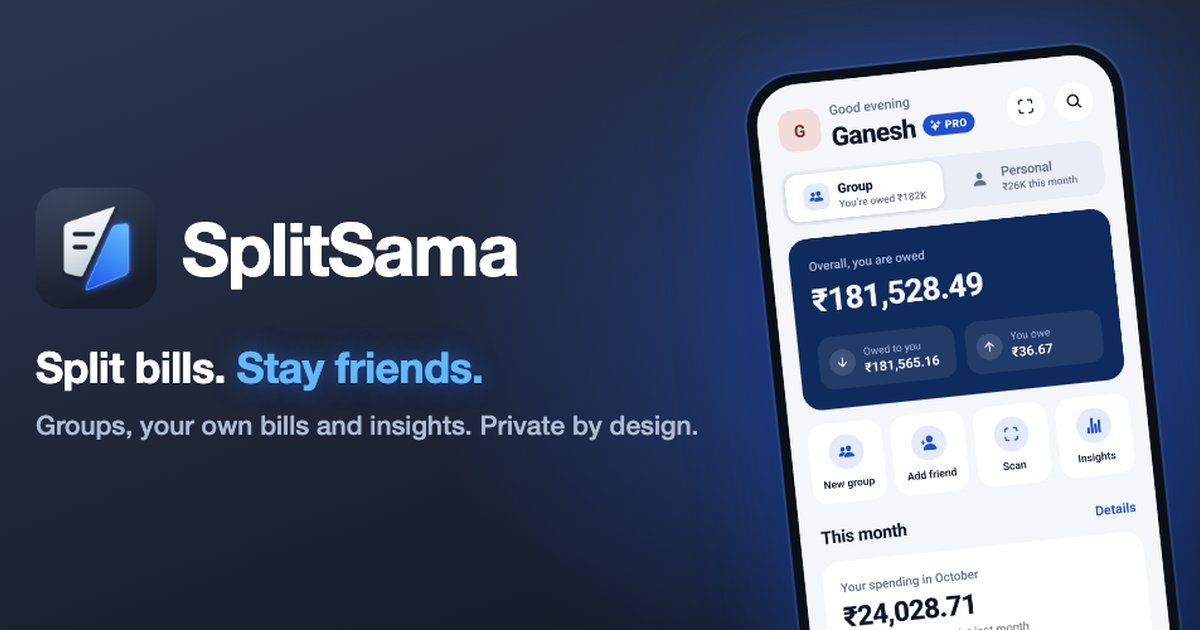
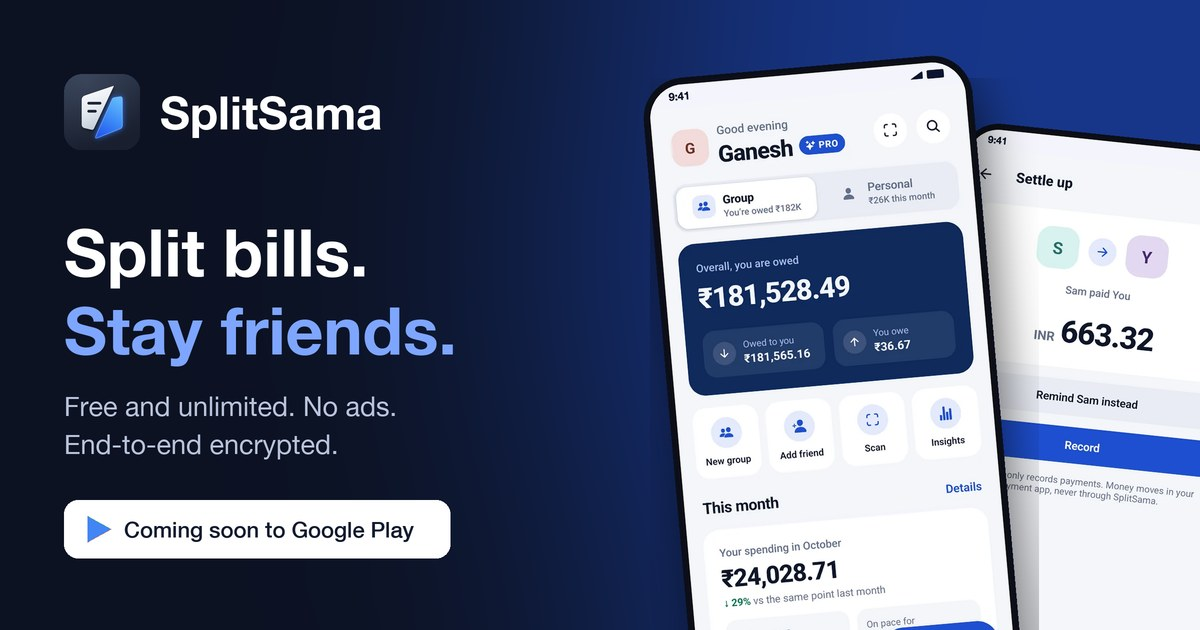
New social preview image with the current tagline and Coming soon pill

diff --git a/pro/index.html b/pro/index.html
@@ -11,7 +11,7 @@
 <meta property="og:title" content="SplitSama Pro: Receipt Scanning, Trips and Budgets">
 <meta property="og:description" content="SplitSama Pro adds receipt scanning, open bills, trip mode, shared budgets, currency conversion, charts and search. Splitting always stays free.">
 <meta property="og:url" content="https://splitsama.app/pro/">
-<meta property="og:image" content="https://splitsama.app/assets/og.jpg">
+<meta property="og:image" content="https://splitsama.app/assets/og.jpg?v=2">
 <meta name="twitter:card" content="summary_large_image">
 <meta name="theme-color" content="#161E30">
 <link rel="icon" href="https://splitsama.app/assets/icon.png" type="image/png" sizes="256x256">

diff --git a/features/index.html b/features/index.html
@@ -11,7 +11,7 @@
 <meta property="og:title" content="Bill Splitting App Features | SplitSama">
 <meta property="og:description" content="SplitSama features: unlimited expenses and groups, flexible splits, simplified debts, UPI settle up, 58 currencies, offline use and export. No ads.">
 <meta property="og:url" content="https://splitsama.app/features/">
-<meta property="og:image" content="https://splitsama.app/assets/og.jpg">
+<meta property="og:image" content="https://splitsama.app/assets/og.jpg?v=2">
 <meta name="twitter:card" content="summary_large_image">
 <meta name="theme-color" content="#161E30">
 <link rel="icon" href="https://splitsama.app/assets/icon.png" type="image/png" sizes="256x256">

diff --git a/how-it-works/index.html b/how-it-works/index.html
@@ -11,7 +11,7 @@
 <meta property="og:title" content="How to Split Bills with SplitSama">
 <meta property="og:description" content="How to use SplitSama to split bills with friends, flatmates and trips: make a group, add expenses, see who owes whom and settle up.">
 <meta property="og:url" content="https://splitsama.app/how-it-works/">
-<meta property="og:image" content="https://splitsama.app/assets/og.jpg">
+<meta property="og:image" content="https://splitsama.app/assets/og.jpg?v=2">
 <meta name="twitter:card" content="summary_large_image">
 <meta name="theme-color" content="#161E30">
 <link rel="icon" href="https://splitsama.app/assets/icon.png" type="image/png" sizes="256x256">

diff --git a/index.html b/index.html
@@ -12,7 +12,7 @@
 <meta property="og:title" content="SplitSama: free split bills app for friends and trips">
 <meta property="og:description" content="Split bills with friends, flatmates and trips. Free and unlimited, with no ads and end-to-end encryption.">
 <meta property="og:url" content="https://splitsama.app/">
-<meta property="og:image" content="https://splitsama.app/assets/og.jpg">
+<meta property="og:image" content="https://splitsama.app/assets/og.jpg?v=2">
 <meta property="og:image:width" content="1200">
 <meta property="og:image:height" content="630">
 <meta property="og:image:alt" content="SplitSama: split bills with friends and groups">

diff --git a/about/index.html b/about/index.html
@@ -11,7 +11,7 @@
 <meta property="og:title" content="About SplitSama">
 <meta property="og:description" content="SplitSama is a free, private app for splitting bills with friends, flatmates and trips, made by an independent developer.">
 <meta property="og:url" content="https://splitsama.app/about/">
-<meta property="og:image" content="https://splitsama.app/assets/og.jpg">
+<meta property="og:image" content="https://splitsama.app/assets/og.jpg?v=2">
 <meta name="twitter:card" content="summary_large_image">
 <meta name="theme-color" content="#161E30">
 <link rel="icon" href="https://splitsama.app/assets/icon.png" type="image/png" sizes="256x256">

diff --git a/delete-account/index.html b/delete-account/index.html
@@ -11,7 +11,7 @@
 <meta property="og:title" content="Delete Account · SplitSama">
 <meta property="og:description" content="How to delete your SplitSama account and data, and what is deleted or kept.">
 <meta property="og:url" content="https://splitsama.app/delete-account/">
-<meta property="og:image" content="https://splitsama.app/assets/og.jpg">
+<meta property="og:image" content="https://splitsama.app/assets/og.jpg?v=2">
 <meta name="twitter:card" content="summary_large_image">
 <meta name="theme-color" content="#161E30">
 <link rel="icon" href="https://splitsama.app/assets/icon.png" type="image/png" sizes="256x256">

diff --git a/privacy/index.html b/privacy/index.html
@@ -11,7 +11,7 @@
 <meta property="og:title" content="Privacy Policy · SplitSama">
 <meta property="og:description" content="How the SplitSama app collects, uses and protects your information.">
 <meta property="og:url" content="https://splitsama.app/privacy/">
-<meta property="og:image" content="https://splitsama.app/assets/og.jpg">
+<meta property="og:image" content="https://splitsama.app/assets/og.jpg?v=2">
 <meta name="twitter:card" content="summary_large_image">
 <meta name="theme-color" content="#161E30">
 <link rel="icon" href="https://splitsama.app/assets/icon.png" type="image/png" sizes="256x256">

diff --git a/terms/index.html b/terms/index.html
@@ -11,7 +11,7 @@
 <meta property="og:title" content="Terms of Service · SplitSama">
 <meta property="og:description" content="The terms for using the SplitSama app.">
 <meta property="og:url" content="https://splitsama.app/terms/">
-<meta property="og:image" content="https://splitsama.app/assets/og.jpg">
+<meta property="og:image" content="https://splitsama.app/assets/og.jpg?v=2">
 <meta name="twitter:card" content="summary_large_image">
 <meta name="theme-color" content="#161E30">
 <link rel="icon" href="https://splitsama.app/assets/icon.png" type="image/png" sizes="256x256">

diff --git a/invite/index.html b/invite/index.html
@@ -12,7 +12,7 @@
 <meta property="og:title" content="Join me on SplitSama">
 <meta property="og:description" content="You've been invited to split expenses on SplitSama.">
 <meta property="og:url" content="https://splitsama.app/invite/">
-<meta property="og:image" content="https://splitsama.app/assets/og.jpg">
+<meta property="og:image" content="https://splitsama.app/assets/og.jpg?v=2">
 <meta property="og:image:width" content="1200">
 <meta property="og:image:height" content="630">
 <meta property="og:image:alt" content="SplitSama: split bills with friends and groups">
